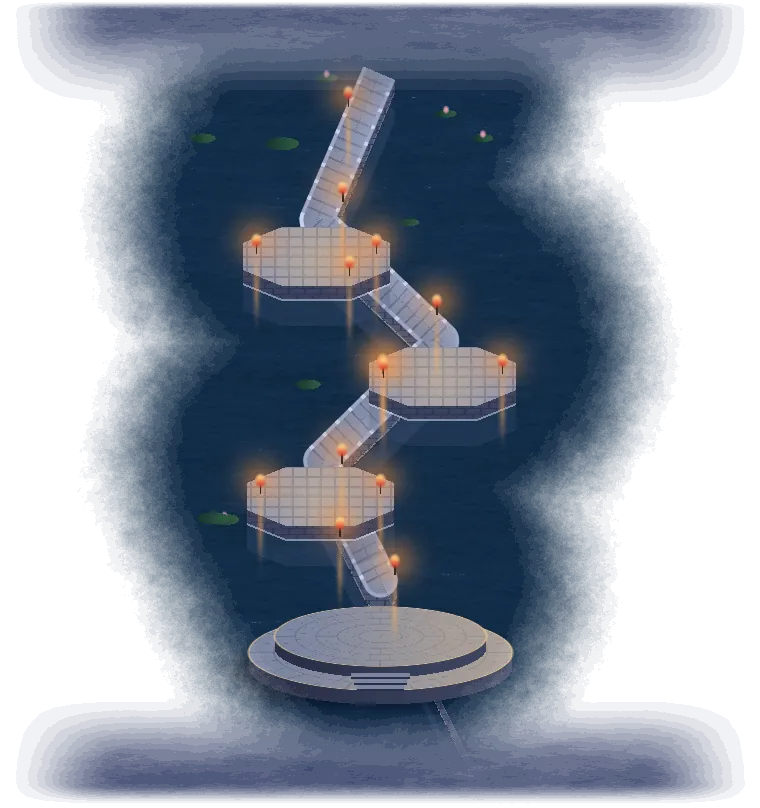
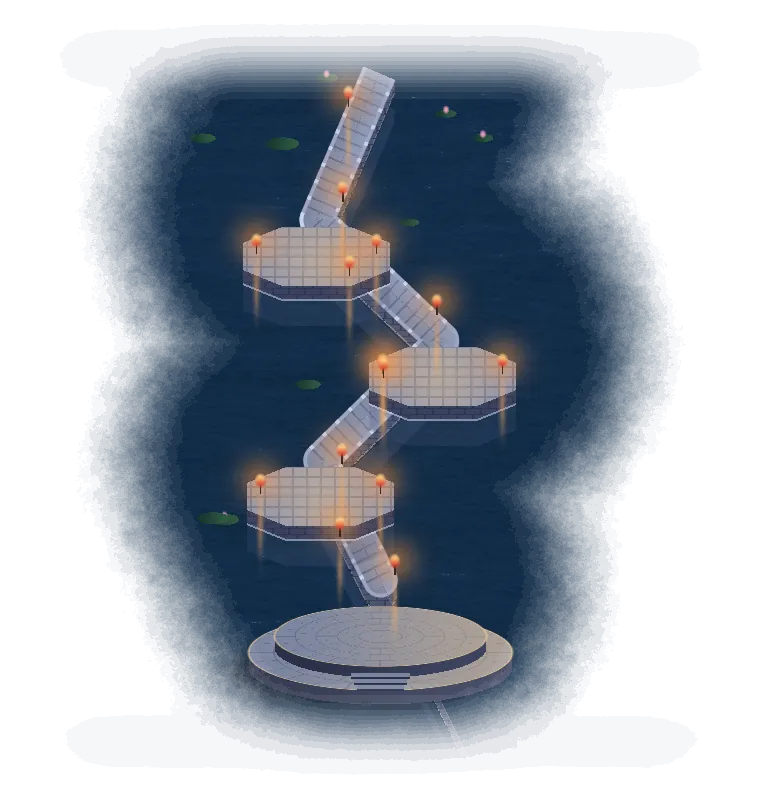
Ruta v30 · B1: montes de tinta en cordal, gente en el puente y en las orillas, marco de lotos desenfocado
Claude-Session: https://claude.ai/code/session_01BaUMrzu23xfwmbCXf3BkLv

Changed region(s): [[0.0303, 0.8354, 0.9684, 1.0], [0.0303, 0.0, 0.9684, 0.1238]]

diff --git a/scripts/mundos/b1.py b/scripts/mundos/b1.py
@@ -8,7 +8,7 @@ import numpy as np
 
 import arquitectura as ar
 import sprites as sp
-from pincel import (H, W, Capa, Lienzo, borde, cielo, cirros, col, desenfoca, mezcla, niebla, nube, perfil_picos, reflejo_capa, sierra,
+from pincel import (H, W, marco_hojas, Capa, Lienzo, borde, cielo, cirros, col, desenfoca, mezcla, niebla, nube, perfil_picos, reflejo_capa, sierra,
                     spline, suave, vdesenfoca, volumen)
 
 LUZ = 1
@@ -172,7 +172,7 @@ def pinta(M):
     for k, (picos, base, tinta, f) in enumerate([
         ([(60, 560, 150), (240, 520, 130), (420, 585, 160), (900, 540, 150), (1080, 575, 140)], 720, "#3a3f72", 0.45),
         ([(150, 620, 170), (360, 600, 140), (820, 615, 160), (1000, 600, 170)], 740, "#262c5c", 0.3)]):
-        pf = perfil_picos(L, picos, rug=26, seed=18 + k, base=base)
+        pf = perfil_picos(L, picos, forma="cordal", rug=20, seed=18 + k, base=base)
         sierra(C, pf, base, luz=LUZ, lit="#6a6fa6", sombra=tinta, aire="#4a4a80", aire_f=f, filo=0.6, filo_c="#b8c4ff", niebla_pie=("#4a4472", 110, 0.95), seed=18 + k, estrias=0.8)
     M.capa("lejos", C, 0.14)
 
@@ -277,6 +277,12 @@ def pinta(M):
     C.pon("#8a9ad8", borde(piedra, LUZ, -1.5) * 0.4)
     M.capa("frente", C, 1.0)
 
+    # ------------------------------------------------------------ 6 · marco: hojas de loto y ramas de sauce desenfocadas
+    C = Capa(L)
+    marco_hojas(C, [(40, 1480, 90, 40, 110, -0.2), (1060, 1490, 90, 40, 110, -2.9), (10, 1300, 40, 30, 90, 1.2), (1090, 1280, 40, 30, 90, 1.9)],
+                "#020a0c", "#1e4a40", luz=LUZ, punta="#6a8ac8", desenfoque=8, seed=93)
+    M.capa("marco", C, 1.3)
+
     # ------------------------------------------------------------ piezas animadas
     sp.halo(M.ruta("halo-luna.webp"), 220, "#c8d8ff", 0.75)
     M.actor("cielo", "halo-luna.webp", lx - 150, ly - 150, 300, 300, "respira", dur=7, op=0.9)
@@ -295,6 +301,10 @@ def pinta(M):
     for i, (vx, vy, vw, vh) in enumerate(ventanas_pueblo[::2] + ventanas[::2]):
         s = vw * 2.6
         M.actor("pueblo" if i < len(ventanas_pueblo[::2]) else "canal", "ventana.webp", vx - s / 2, vy - s / 2, s, s, "parpadea", dur=round(5 + (i * 1.7) % 6, 2), retraso=-i * 0.9, movil=i % 2 == 0)
+    sp.gente(M, "pueblo", "campesina", 420, 836, 12, 10, 40, retraso=-6, luz=LUZ)
+    sp.gente(M, "pueblo", "viajero", 700, 838, 12, -10, 46, retraso=-20, luz=LUZ, movil=False)
+    sp.gente(M, "canal", "mercader", 40, 1160, 20, 14, 50, retraso=-8, luz=LUZ, movil=False)
+    sp.gente(M, "canal", "pescador", 1000, 1150, 20, -12, 56, retraso=-30, luz=LUZ)
     rw_, rh_ = sp.ropa(M.ruta("ropa.webp"), 160, 50, seed=2)
     for i, (x, y, s) in enumerate(((112, 1000, 0.7), (900, 992, 0.75), (250, 846, 0.45), (850, 850, 0.42))):
         M.actor("canal" if i < 2 else "pueblo", "ropa.webp", x, y, rw_ * s, rh_ * s, "cuelga", dur=4 + i * 0.5, retraso=-i, amp=1.5, movil=i < 2)
